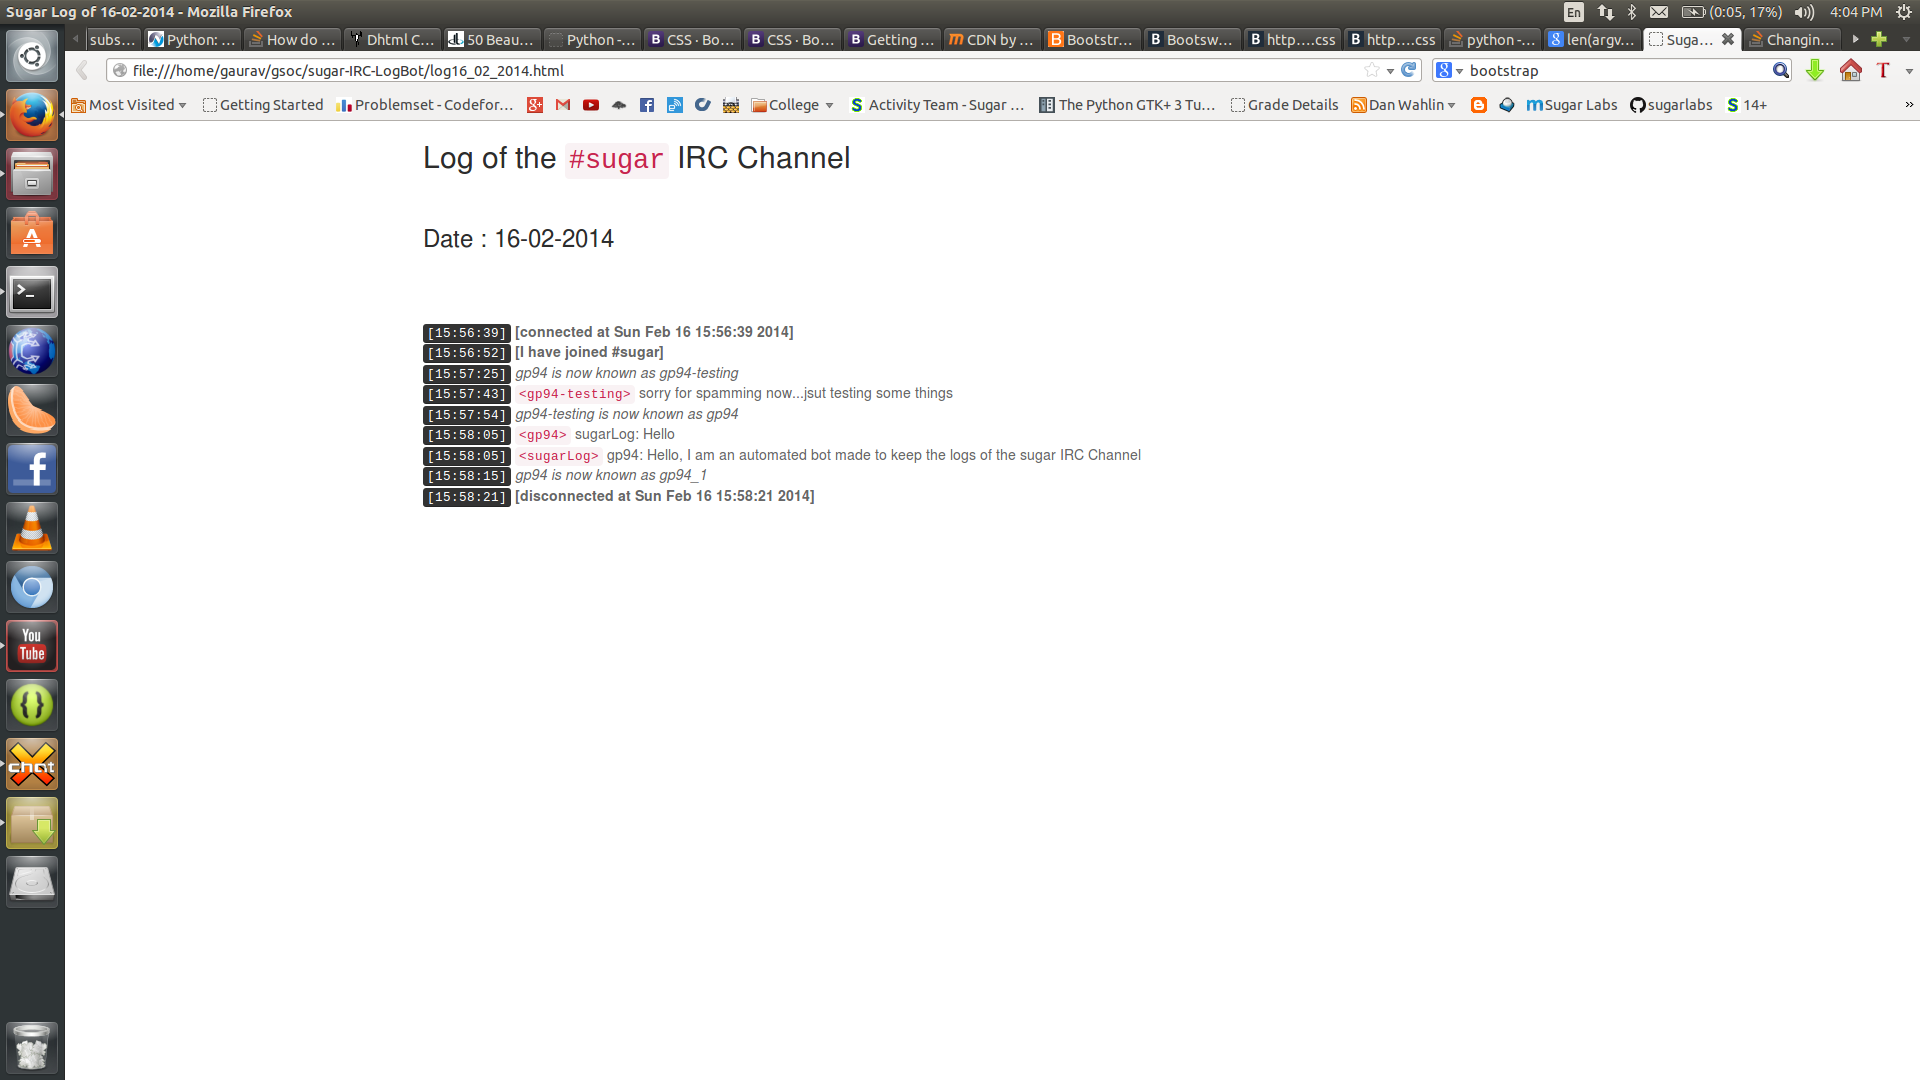
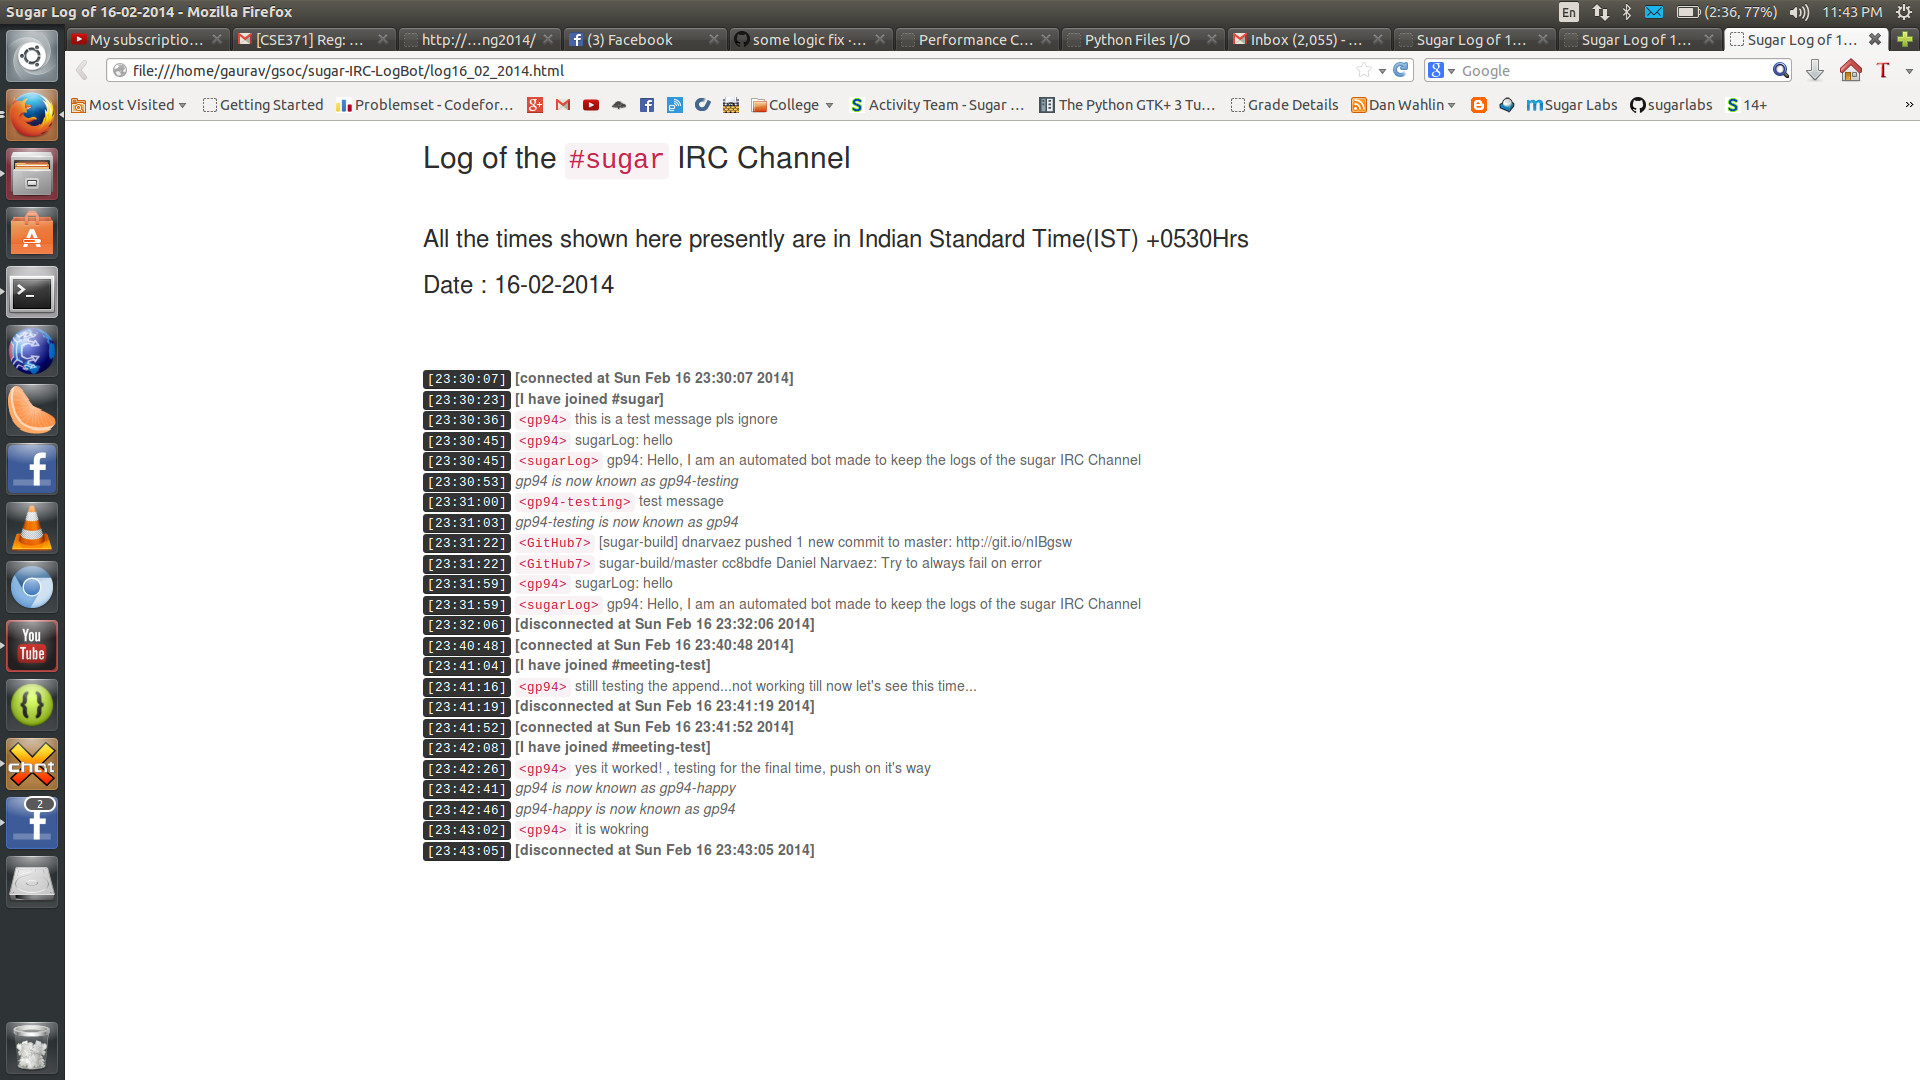
fixed the append of log file

Changed region(s): [[0.2188, 0.2139, 0.6562, 0.7944], [0.0312, 0.0, 1.0, 0.0917], [0.0, 0.7333, 0.0312, 0.7944]]

diff --git a/log16_02_2014.html b/log16_02_2014.html
@@ -12,18 +12,28 @@
                 <h3>All the times shown here presently are in Indian Standard Time(IST) +0530Hrs<h3/>
                 <h3>Date : 16-02-2014 </h3><br/><br/>
                 <br/>
-<kbd>[16:08:39]</kbd> <strong>[connected at Sun Feb 16 16:08:39 2014]</strong><br/>
-<kbd>[16:08:54]</kbd> <strong>[I have joined #sugar]</strong><br/>
-<kbd>[16:09:28]</kbd> <em>gp94_1 is now known as gp94</em><br/>
-<kbd>[16:59:03]</kbd> <code>&lt;GitHub13&gt;</code> [sugar-docs] dnarvaez pushed 1 new commit to master: http://git.io/r9sTcg<br/>
-<kbd>[16:59:03]</kbd> <code>&lt;GitHub13&gt;</code> sugar-docs/master 298a135 Lionel Laské: Reduce size of sugarizer-json image<br/>
-<kbd>[17:01:03]</kbd> <code>&lt;dnarvaez&gt;</code> git.sugarlabs.org seems down<br/>
-<kbd>[17:04:46]</kbd> <code>&lt;GitHub80&gt;</code> [sugar-docs] dnarvaez closed pull request #62: Reduce size of sugarizer-json image (master...master) http://git.io/VL0euQ<br/>
-<kbd>[17:04:47]</kbd> <code>&lt;GitHub194&gt;</code> [sugar-docs] dnarvaez pushed 2 new commits to master: http://git.io/T3hxiw<br/>
-<kbd>[17:04:47]</kbd> <code>&lt;GitHub194&gt;</code> sugar-docs/master c748eb7 Lionel Laské: Reduce size of sugarizer-json image<br/>
-<kbd>[17:04:47]</kbd> <code>&lt;GitHub194&gt;</code> sugar-docs/master 81e26d8 Daniel Narvaez: Merge pull request #62 from llaske/master...<br/>
-<kbd>[17:10:34]</kbd> <code>&lt;sbbot&gt;</code> build #2 of quick-master is complete: Failure [failed shell]  Build details are at http://buildbot.sugarlabs.org/builders/quick-master/builds/2  blamelist: Lionel Lask? <llaske@c2s.fr><br/>
-<kbd>[17:15:33]</kbd> <strong>[disconnected at Sun Feb 16 17:15:33 2014]</strong><br/>
+<kbd>[23:30:07]</kbd> <strong>[connected at Sun Feb 16 23:30:07 2014]</strong><br/>
+<kbd>[23:30:23]</kbd> <strong>[I have joined #sugar]</strong><br/>
+<kbd>[23:30:36]</kbd> <code>&lt;gp94&gt;</code> this is a test message pls ignore<br/>
+<kbd>[23:30:45]</kbd> <code>&lt;gp94&gt;</code> sugarLog: hello<br/>
+<kbd>[23:30:45]</kbd> <code>&lt;sugarLog&gt;</code> gp94: Hello, I am an automated bot made to keep the logs of the sugar IRC Channel<br/>
+<kbd>[23:30:53]</kbd> <em>gp94 is now known as gp94-testing</em><br/>
+<kbd>[23:31:00]</kbd> <code>&lt;gp94-testing&gt;</code> test message<br/>
+<kbd>[23:31:03]</kbd> <em>gp94-testing is now known as gp94</em><br/>
+<kbd>[23:31:22]</kbd> <code>&lt;GitHub7&gt;</code> [sugar-build] dnarvaez pushed 1 new commit to master: http://git.io/nIBgsw<br/>
+<kbd>[23:31:22]</kbd> <code>&lt;GitHub7&gt;</code> sugar-build/master cc8bdfe Daniel Narvaez: Try to always fail on error<br/>
+<kbd>[23:31:59]</kbd> <code>&lt;gp94&gt;</code> sugarLog: hello<br/>
+<kbd>[23:31:59]</kbd> <code>&lt;sugarLog&gt;</code> gp94: Hello, I am an automated bot made to keep the logs of the sugar IRC Channel<br/>
+<kbd>[23:32:06]</kbd> <strong>[disconnected at Sun Feb 16 23:32:06 2014]</strong><br/><kbd>[23:40:48]</kbd> <strong>[connected at Sun Feb 16 23:40:48 2014]</strong><br/>
+<kbd>[23:41:04]</kbd> <strong>[I have joined #meeting-test]</strong><br/>
+<kbd>[23:41:16]</kbd> <code>&lt;gp94&gt;</code> stilll testing the append...not working till now let's see this time...<br/>
+<kbd>[23:41:19]</kbd> <strong>[disconnected at Sun Feb 16 23:41:19 2014]</strong><br/><kbd>[23:41:52]</kbd> <strong>[connected at Sun Feb 16 23:41:52 2014]</strong><br/>
+<kbd>[23:42:08]</kbd> <strong>[I have joined #meeting-test]</strong><br/>
+<kbd>[23:42:26]</kbd> <code>&lt;gp94&gt;</code> yes it worked! , testing for the final time, push on it's way<br/>
+<kbd>[23:42:41]</kbd> <em>gp94 is now known as gp94-happy</em><br/>
+<kbd>[23:42:46]</kbd> <em>gp94-happy is now known as gp94</em><br/>
+<kbd>[23:43:02]</kbd> <code>&lt;gp94&gt;</code> it is wokring<br/>
+<kbd>[23:43:05]</kbd> <strong>[disconnected at Sun Feb 16 23:43:05 2014]</strong><br/>
 </div>
                <script src='https://ajax.googleapis.com/ajax/libs/jquery/1.11.0/jquery.min.js'></script>
                <script src='//netdna.bootstrapcdn.com/bootstrap/3.1.1/js/bootstrap.min.js'>

diff --git a/irc.py b/irc.py
@@ -68,10 +68,18 @@ class LogBot(irc.IRCClient):
     nickname = "sugarLog"
     def connectionMade(self):
         irc.IRCClient.connectionMade(self)
-        #FIXME : There will be problem in the making of the html file if it is restarted in the same day
-        #        because the header and footer are added each time to the file if opened/ appended
-        self.logger = MessageLogger(open(self.factory.filename, "a"))
-        self.logger.log(html_header,0)
+        if os.path.isfile(self.factory.filename):
+                fo = open(self.factory.filename , "r+")
+                contents = fo.read()
+                seek_position = contents.find(html_footer)
+                fo.seek(seek_position-1,0)
+                print seek_position
+                self.logger = MessageLogger(fo)
+                #if the file is already made then just go to that position just before the start of html_footer
+
+        else:
+                self.logger = MessageLogger(open(self.factory.filename, "w"))
+                self.logger.log(html_header,0)
         self.logger.log("<strong>[connected at %s]</strong>" % time.asctime(time.localtime(time.time())),1)
     
     def connectionLost(self, reason):
@@ -162,7 +170,7 @@ if __name__ == '__main__':
     log.startLogging(sys.stdout)
     if len(sys.argv)==1:
             # create factory protocol and application
-            f = LogBotFactory("sugar", filename)
+            f = LogBotFactory("meeting-test", filename)
             # connect factory to this host and port
             reactor.connectTCP("irc.freenode.net", 6667, f)
             # run bot
